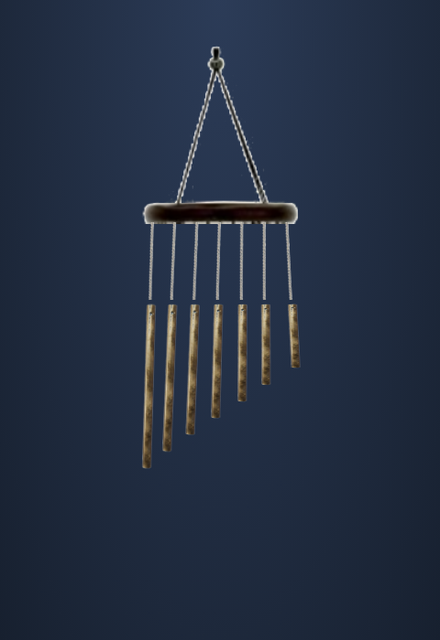
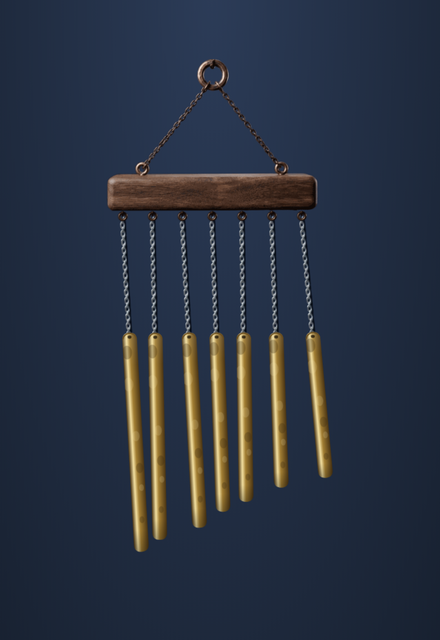
chimes: reshoot the card off the rebuilt piece
The old card predated even the drawn hanger -- a curved dark bar with a knot
at the top and hammered flat rods, none of which the piece has had for some
time. Framed by measuring the chime's own painted extent in the shot rather
than trusting a ratio, and cropped to 440x640 rather than squeezed into it.

Claude-Session: https://claude.ai/code/session_01WPy6gbCXqmmiB2cbK4YnZS

Changed region(s): [[0.2364, 0.0625, 0.7682, 0.875]]

diff --git a/CLAUDE.md b/CLAUDE.md
@@ -439,7 +439,11 @@ on a Retina screen; a photograph would have to be stretched to length *and* upsc
 on both sheets, so it doesn't need measuring again. The old dead `chime-rod-*.png` sprites are still on
 disk, unreferenced, as warmler's unused textures are.<br>**Noticed while measuring and NOT fixed**: on a
 240x350 screen the dock's four rows swamp the chime entirely. It is identical before and after this
-change, so it is hers to find on the Jelly Star, not something this change introduced. |
+change, so it is hers to find on the Jelly Star, not something this change introduced.<br>**The card was
+reshot** off the rebuilt piece — the old one predated even the DRAWN hanger, showing a curved dark bar
+with a knot at the top and hammered flat rods, none of which the piece has had for some time. Framed by
+measuring the chime's own painted extent in the shot rather than trusting a ratio, and **cropped** to
+440x640 rather than squeezed into it, which is musebox's lesson. |
 | `chladni/index.html` | ✅ | ✅ | A **Chladni plate** — sand on metal, forming standing-wave patterns in response to sound<br>**Done**. Aug 2026 it was given **substances**, in
 two families that are a real inversion of each other and not a recolour: heavy grains (sand, salt)
 are thrown off the moving plate and pile on the **nodal lines**, while very fine powder (lycopodium,
